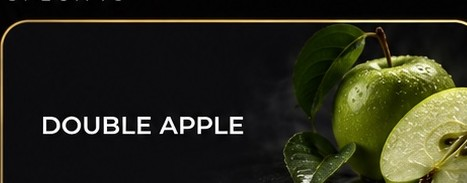
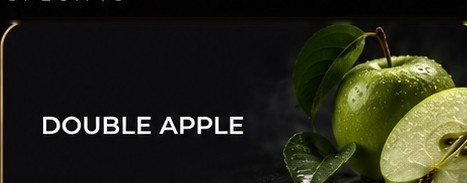
Add files via upload

Changed region(s): [[0.0, 0.082, 1.0, 0.1366]]

diff --git a/hansum.html b/hansum.html
@@ -4,7 +4,7 @@
 <meta charset="UTF-8">
 <meta name="viewport" content="width=device-width,initial-scale=1,viewport-fit=cover">
 <meta name="theme-color" content="#050505">
-<title>HANSUM — Shisha Omakase · v5.8.1</title>
+<title>HANSUM — Shisha Omakase · v5.8.2</title>
 <script src="https://cdn.tailwindcss.com"></script>
 <script src="js/vue.global.js"></script>
 <link rel="preconnect" href="https://fonts.googleapis.com">

diff --git a/README.md b/README.md
@@ -75,10 +75,10 @@ Updated v5.6.10+: replaced Cosmo and Oblako bowl images in order bowl selection 
 - Verified inline JavaScript syntax in both order pages and `script.js`.
 - Removed unused image assets that were not referenced by any HTML/CSS/JS file.
 - Kept all images currently used by the website, order pages, and Gallery 01–13.
-- Updated stale page titles from v5.5 to v5.8.1.
+- Updated stale page titles from v5.5 to v5.8.2.
 
 
-## v5.8.1 final UI fix
+## v5.8.2 final UI fix
 - Flavor Profile selected cards keep a fixed 1px outer border and use an inset gold highlight, preventing the yellow selection line from shifting or changing card position.
-- Updated order page title to v5.8.1.
+- Updated order page title to v5.8.2.
 - Removed unused preview embeds from the deployment package.
